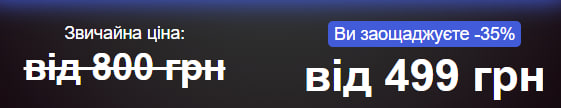
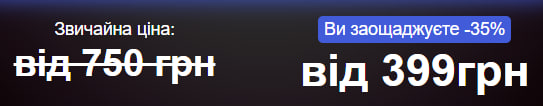
Add files via upload

diff --git a/index.html b/index.html
@@ -25,21 +25,21 @@
         <script async="" src="./Каркасний басейн_files/swiper-bundle.min.js.завантаження"></script>
 
 <!-- Meta Pixel Code -->
-<script>
-!function(f,b,e,v,n,t,s)
-{if(f.fbq)return;n=f.fbq=function(){n.callMethod?
-n.callMethod.apply(n,arguments):n.queue.push(arguments)};
-if(!f._fbq)f._fbq=n;n.push=n;n.loaded=!0;n.version='2.0';
-n.queue=[];t=b.createElement(e);t.async=!0;
-t.src=v;s=b.getElementsByTagName(e)[0];
-s.parentNode.insertBefore(t,s)}(window, document,'script',
-'https://connect.facebook.net/en_US/fbevents.js');
-fbq('init', '438916982555487');
-fbq('track', 'PageView');
-</script>
-<noscript><img height="1" width="1" style="display:none"
-src="https://www.facebook.com/tr?id=438916982555487&ev=PageView&noscript=1"
-/></noscript>
+        <script>
+            !function(f,b,e,v,n,t,s)
+            {if(f.fbq)return;n=f.fbq=function(){n.callMethod?
+            n.callMethod.apply(n,arguments):n.queue.push(arguments)};
+            if(!f._fbq)f._fbq=n;n.push=n;n.loaded=!0;n.version='2.0';
+            n.queue=[];t=b.createElement(e);t.async=!0;
+            t.src=v;s=b.getElementsByTagName(e)[0];
+            s.parentNode.insertBefore(t,s)}(window, document,'script',
+            'https://connect.facebook.net/en_US/fbevents.js');
+            fbq('init', '1143387053376667');
+            fbq('track', 'PageView');
+        </script>
+        <noscript>
+            <img height="1" width="1" style="display:none"src="https://www.facebook.com/tr?id=1143387053376667&ev=PageView&noscript=1"/>
+        </noscript>
 <!-- End Meta Pixel Code -->
  
         <link rel="stylesheet" href="./Каркасний басейн_files/all.min.css" type="text/css">
@@ -813,11 +813,11 @@ src="https://www.facebook.com/tr?id=438916982555487&ev=PageView&noscript=1"
               <div class="price_block clearfix">
                 <div class="price_item old">
                     <div class="text">Звичайна ціна:</div>
-                    <div class="value">від 800 грн</div>
+                    <div class="value">від 750 грн</div>
                 </div>
                 <div class="price_item new">
                     <div class="text"><span>Ви заощаджуєте -35%</span></div>
-                    <div class="value">від 499 грн</div>
+                    <div class="value">від 399 грн</div>
                 </div>
             </div>
             <section class="b1">
@@ -1400,11 +1400,11 @@ src="https://www.facebook.com/tr?id=438916982555487&ev=PageView&noscript=1"
             <div class="price_block clearfix">
                 <div class="price_item old">
                     <div class="text">Звичайна ціна:</div>
-                    <div class="value">від 800 грн</div>
+                    <div class="value">від 750 грн</div>
                 </div>
                 <div class="price_item new">
                     <div class="text"><span>Ви заощаджуєте -35%</span></div>
-                    <div class="value">від 499грн</div>
+                    <div class="value">від 399грн</div>
                 </div>
             </div>
             
